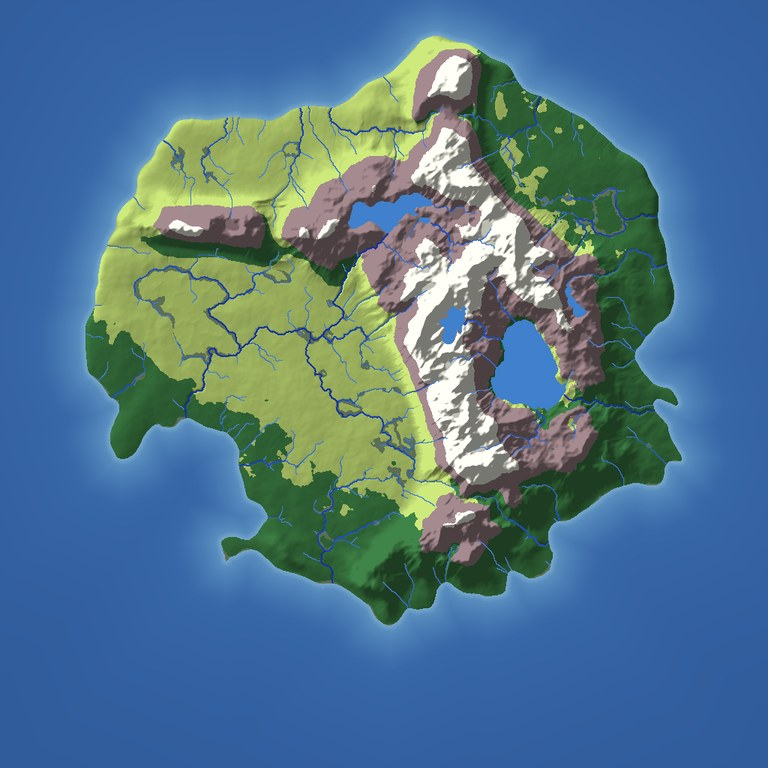
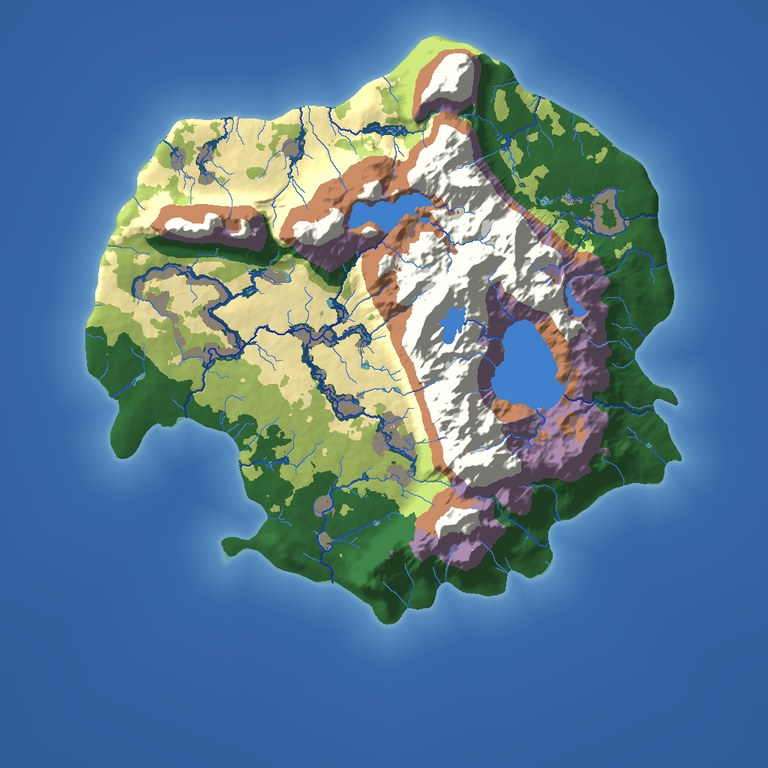
README and CLAUDE.md: biome variety revision merged (generator 0.9.0, schema 4)

diff --git a/README.md b/README.md
@@ -42,14 +42,14 @@ The full design is in [`docs/design/design.md`](docs/design/design.md).
 
 ## Status
 
-*Last updated: 2026-11-17.*
+*Last updated: 2026-11-18.*
 
 | | |
 | --- | --- |
 | **Current phase** | P1 Geography. P0 Foundation and P2 Godot bring-up and viewer v0 are complete |
 | **Next phase** | P3 History core, after P1 |
 | **Current milestone** | Milestone 0, Geography generator: in progress (P1 and P2) |
-| **Work in flight** | P1: elevation and hydrology are merged, so `generate` writes a continent with ranges, passes, rivers and lakes. Elevation followed five rounds of design exploration and two world-critic reviews (`docs/reviews/`): irregular continents, long segmented ranges with 2,000 to 2,500 m peaks, valleys cut by erosion, and a guaranteed share of mountains in every world. Generator 0.6.0 (2026-11-17) added natural passes at saddles of each range's drainage divide, after five more exploration rounds and three critic reviews: a pass is cut by at most 500 m, so naturally low saddles become low gates and others stay high cols, and about two in five are walkable end to end at the default map size. Pass sites are stored in a `pass` table for the history simulation (the first schema change, version 2). Very steep faces are bounded by a final slope-relaxing step. Climate merged the same day (generator 0.7.0): temperature falls with height and from south to north, and each world has one prevailing wind that makes ranges wet on the windward side and dry in the lee. Biomes merged on 2026-11-18 (generator 0.8.0, schema 3): alpine, highland moor, marsh, forest and grassland by rules held as data, with forest thresholds scaled to map size; the biome definitions and the world's wind direction are stored in the world file. In progress: a revision adding heath, steppe, wet woodland and fens, a per-world temperature offset and a thinner coastal forest (Paul's decisions of 2026-11-17; design exploration under way). After it: resources and habitability, and regions. |
+| **Work in flight** | P1: elevation and hydrology are merged, so `generate` writes a continent with ranges, passes, rivers and lakes. Elevation followed five rounds of design exploration and two world-critic reviews (`docs/reviews/`): irregular continents, long segmented ranges with 2,000 to 2,500 m peaks, valleys cut by erosion, and a guaranteed share of mountains in every world. Generator 0.6.0 (2026-11-17) added natural passes at saddles of each range's drainage divide, after five more exploration rounds and three critic reviews: a pass is cut by at most 500 m, so naturally low saddles become low gates and others stay high cols, and about two in five are walkable end to end at the default map size. Pass sites are stored in a `pass` table for the history simulation (the first schema change, version 2). Very steep faces are bounded by a final slope-relaxing step. Climate merged the same day (generator 0.7.0): temperature falls with height and from south to north, and each world has one prevailing wind that makes ranges wet on the windward side and dry in the lee. Biomes merged on 2026-11-18 (generator 0.8.0, schema 3): alpine, highland moor, marsh, forest and grassland by rules held as data, with forest thresholds scaled to map size; the biome definitions and the world's wind direction are stored in the world file. A variety revision merged the same day (generator 0.9.0, schema 4; Paul's decisions of 2026-11-17): heath, steppe, wet woodland along large rivers and fens on wet lowland bring the count to nine natural biomes, each world draws its own temperature offset of up to 2 °C either way (stored in the world file), and the coastal forest ring is thinner. Validated on 271 worlds; a world-critic review (`docs/reviews/p1-04b-biome-variety-critic.md`) notes two follow-ups, a visible heath stripe on some worlds and blocky fen patches on the largest maps. Next: resources and habitability, then regions. |
 | **`main`** | Builds and passes all tests on Linux (GCC, Clang, Clang with sanitizers) and Windows (MSVC), in debug and release |
 
 **What "P0 done" means.** The phase's exit check is that an empty world file is byte-identical across all three compilers and that `worldgen-cli hash` proves it in continuous integration. It does: eight test worlds, six empty and two holding test layers, are identical across all seven build configurations, and each matches its recorded golden hash. CI repeats the comparison on every push. With geography stages merged the comparison covers twelve worlds, four of them full maps with elevation and hydrology at 512 and 1024.
@@ -81,7 +81,7 @@ The first block of work is the world generator prototype: seven phases, P0 to P6
 | Phase | Delivers | Depends on | Status |
 | --- | --- | --- | --- |
 | **P0 Foundation** | Repository layout, CMake presets, vendored dependencies, CI on three compilers, the deterministic core, the reproducible SQLite layer, the TOML loader, `worldgen-cli` | — | **Done** 2026-11-15, reviewed |
-| **P1 Geography** | Elevation, erosion, hydrology, climate, biomes, resources and regions, each writing its layer; image export per layer | P0 | **In progress** since 2026-11-15: first three specs approved, shared foundation, elevation and hydrology merged (2026-11-16); natural passes merged (2026-11-17, generator 0.6.0, schema 2); climate merged (2026-11-17, generator 0.7.0); biomes merged (2026-11-18, generator 0.8.0, schema 3); biome variety revision in exploration |
+| **P1 Geography** | Elevation, erosion, hydrology, climate, biomes, resources and regions, each writing its layer; image export per layer | P0 | **In progress** since 2026-11-15: first three specs approved, shared foundation, elevation and hydrology merged (2026-11-16); natural passes merged (2026-11-17, generator 0.6.0, schema 2); climate merged (2026-11-17, generator 0.7.0); biomes merged (2026-11-18, generator 0.8.0, schema 3); biome variety revision merged (2026-11-18, generator 0.9.0, schema 4); resources and habitability, and regions, remain |
 | **P2 Godot bring-up and viewer v0** | Godot version pinned, C++ extension building on Linux and Windows, `world.db` reader bound into Godot, 2D map with switchable layers | P0; parallel with P1 | **Done** 2026-11-15, awaiting Paul's hands-on review. Godot 4.7.2 and godot-cpp 10.0.0 pinned; the extension builds and its headless check passes on Linux and Windows |
 | **P3 History core** | Race and culture definitions, ages and the awakening schedule, active phases and quiet intervals, civilizations, settlements, wars, ruin, the event log, a text history report | P1 | Not started |
 | **P4 Viewer v1** | Timeline scrubber, territory by year, settlement and site markers, browser for civilizations and events | P2, P3; parallel with P5 | Not started |
@@ -125,7 +125,7 @@ Around them: about 300 automated test cases, 2,201 golden vectors for the core p
 
 ## What works today
 
-`worldgen-cli` writes world files and inspects them. A generated world currently holds a table of mountain passes and a table of biome definitions, the world's wind direction, and eleven geography layers (elevation; water, water depth, flow direction, flow accumulation, rivers, lakes and distance to the coast from hydrology; temperature and rainfall from climate; biomes) on a 512, 1024 or 2048 cell map at 16 m per cell.
+`worldgen-cli` writes world files and inspects them. A generated world currently holds a table of mountain passes and a table of biome definitions, the world's wind direction and temperature offset, and eleven geography layers (elevation; water, water depth, flow direction, flow accumulation, rivers, lakes and distance to the coast from hydrology; temperature and rainfall from climate; biomes) on a 512, 1024 or 2048 cell map at 16 m per cell.
 
 ```
 $ worldgen-cli generate --seed-phrase "The Unmapped"
@@ -134,16 +134,16 @@ $ worldgen-cli generate --seed-phrase "The Unmapped"
 $ worldgen-cli report --db ~/.cache/the-unmapped/out/world-15629206466951235176.db
 # worldgen report v2
 [meta]
-content_hash = 5129d6425219153ff571b6ed4c04811110c4f8d0868d1f7f8d80942414218938
+content_hash = 93238a8f58d2b0b88c41cb6b17018886e967c9f356149cec052e9805db1562e6
 format = the-unmapped-world
-generator_version = 0.8.0
+generator_version = 0.9.0
 param.map_size = 1024
-schema_version = 3
+schema_version = 4
 seed = 15629206466951235176
 seed_phrase = the unmapped
 stages = elevation,hydrology,climate,biomes
 [tables]
-biome = 8
+biome = 12
 climate = 1
 layer = 11
 meta = 8
@@ -157,9 +157,9 @@ flow_accum u32 1024x1024 codec=1 bytes=468500 min=0 max=120835
 river u8 1024x1024 codec=1 bytes=27457 min=0 max=8
 lake u32 1024x1024 codec=1 bytes=2234 min=0 max=4
 coast_dist i16 1024x1024 codec=1 bytes=1022256 min=-6579 max=5008
-temperature i16 1024x1024 codec=1 bytes=274872 min=-55 max=94
-rainfall u16 1024x1024 codec=1 bytes=1026588 min=497 max=4535
-biome u8 1024x1024 codec=1 bytes=33855 min=1 max=7
+temperature i16 1024x1024 codec=1 bytes=274872 min=-65 max=84
+rainfall u16 1024x1024 codec=1 bytes=1019690 min=497 max=4535
+biome u8 1024x1024 codec=1 bytes=48513 min=1 max=12
 [geography]
 cells = 1048576
 land_cells = 419430
@@ -196,15 +196,16 @@ major_rivers = 15
 longest_river_m = 11685
 largest_basin_share = 0.2881
 wind_toward = NW
-temperature_c = -5.5 0.3 5.2 7.1 8.7
-rainfall_mm = 497 553 709 1466 4535
-land_below_0c = 0.0833
-rain_contrast = 2.6510
-biome_share = temperate_forest:0.3330 grassland:0.3411 marsh:0.0228 highland_moor:0.1954 alpine:0.1078 blighted_waste:0.0000
-biome_patches = 252
+temp_offset_c = -1.0
+temperature_c = -6.5 -0.7 4.2 6.1 7.7
+rainfall_mm = 497 553 706 1457 4535
+land_below_0c = 0.1249
+rain_contrast = 2.6347
+biome_share = temperate_forest:0.2927 grassland:0.1449 marsh:0.0053 highland_moor:0.1038 alpine:0.1533 blighted_waste:0.0000 heath:0.0798 steppe:0.1646 wet_woodland:0.0182 fen:0.0374
+biome_patches = 475
 
 $ worldgen-cli hash --db ~/.cache/the-unmapped/out/world-15629206466951235176.db
[2 lines of base64/hex data omitted]
 
 $ worldgen-cli render --db ~/.cache/the-unmapped/out/world-15629206466951235176.db --composite map
 /home/you/.cache/the-unmapped/out/world-15629206466951235176.map.png
@@ -218,7 +219,7 @@ The rainfall layer of the same world (`render --layer rainfall`): dark is wet. T
 
 ![Rainfall map of the same world](docs/images/p1-rainfall.jpg)
 
-The biome map (`render --composite biomes`): dark green is forest, pale green grassland, grey-green marsh, mauve highland moor, white alpine ground:
+The biome map (`render --composite biomes`): dark green is forest, pale green grassland, straw yellow steppe, blue-green wet woodland along the large rivers, pale teal marsh, grey-brown fen, mauve highland moor, rust brown heath and pale grey alpine ground. This world drew a temperature offset of −1.0 °C, so it is a cold one:
 
 ![Biome map of the same world](docs/images/p1-biomes.jpg)
 

diff --git a/CLAUDE.md b/CLAUDE.md
@@ -6,7 +6,7 @@ A single-player, first-person, open-world RPG whose world and history are genera
 
 - **Design doc:** `docs/design/design.md`. It is the specification for the whole project. Read the sections relevant to your task before starting.
 - **Current work:** the world generator prototype, section 13 of the design doc (phases P0 to P6).
-- **Current phase:** P1 Geography. P0 Foundation and P2 (Godot bring-up and viewer v0) are done. The elevation, hydrology, climate and biome stages (specs P1-01 to P1-04) are merged; a biome variety revision is being explored; resources and habitability, and regions (specs P1-05, P1-06) follow.
+- **Current phase:** P1 Geography. P0 Foundation and P2 (Godot bring-up and viewer v0) are done. The elevation, hydrology, climate and biome stages (specs P1-01 to P1-04) are merged, including the biome variety revision (generator 0.9.0, schema 4); resources and habitability, and regions (specs P1-05, P1-06) follow.
 - **Next phase:** P3 History core, after Paul's review of P1.
 
 ## The design doc is read-only
@@ -136,11 +136,11 @@ Approximate full `ctest` time on a 6-core Linux machine:
 
 | Preset | `ctest` |
 | --- | --- |
-| `linux-gcc-release`, `linux-clang-release` | about 110 seconds |
-| `linux-gcc-debug`, `linux-clang-debug` | about four and a half minutes |
-| `linux-clang-asan` | about 18 minutes (`worldgen-tests` alone about 12) |
+| `linux-gcc-release`, `linux-clang-release` | about two and a half minutes |
+| `linux-gcc-debug`, `linux-clang-debug` | about ten minutes |
+| `linux-clang-asan` | about 42 minutes (`worldgen-tests` alone about 30) |
 
-Measured 2026-11-16 at generator 0.4.0. Windows times are not measured yet. `worldgen-tests` takes most of it. For quick iteration use `linux-gcc-release` or `linux-clang-release` (run a single doctest executable with `-tc=` or `-ts=` for narrower checks); run both debug presets and `linux-clang-asan` before handing work on.
+Measured 2026-11-18 at generator 0.9.0. Windows times are not measured yet. `worldgen-tests` takes most of it. For quick iteration use `linux-gcc-release` or `linux-clang-release` (run a single doctest executable with `-tc=` or `-ts=` for narrower checks); run both debug presets and `linux-clang-asan` before handing work on.
 
 ### Determinism lint
 
